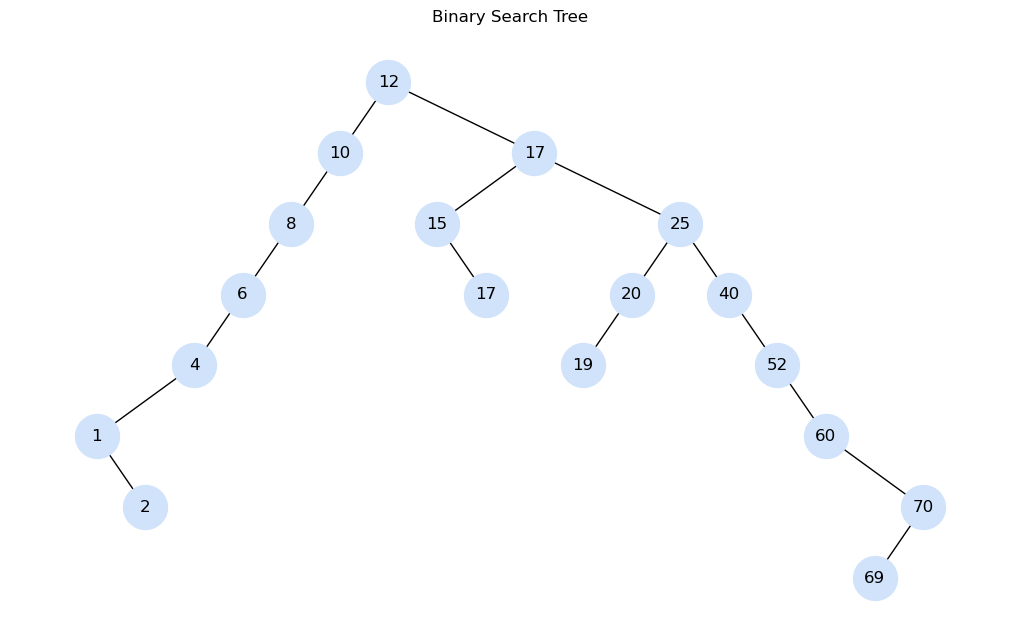
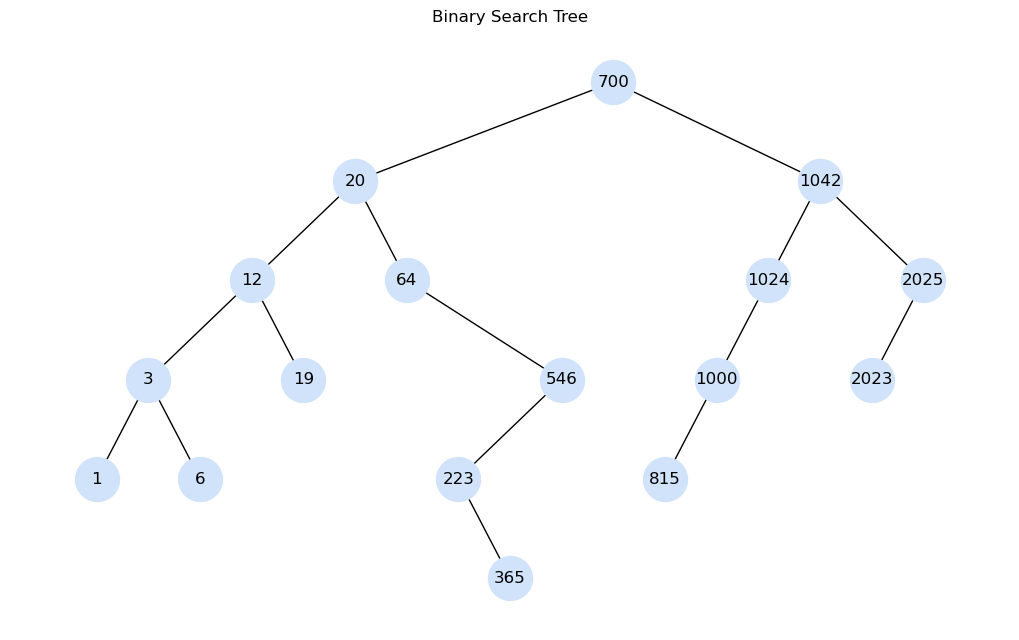
Added new features in BST

diff --git a/period-2/binary-search-tree/tree.py b/period-2/binary-search-tree/tree.py
@@ -1,4 +1,5 @@
 
+from math import log2
 from typing import Optional, List
 
 class Node:
@@ -21,6 +22,49 @@ class BinaryTree:
     def __init__(self):
         """Initializes an empty binary search tree."""
         self.root: Optional[Node] = None
+
+    @property
+    def height(self) -> int:
+        """Calculates the height of the tree.
+
+        Returns:
+            int: The height of the tree.
+        """
+        return self.get_height(self.root)
+
+    @property
+    def nodes(self) -> int:
+        """Counts the number of nodes in the tree.
+
+        Returns:
+            int: The number of nodes in the tree.
+        """
+        return self.count_nodes(self.root)
+
+    @property
+    def balanced_height(self) -> int:
+        """Calculates the balanced height of the tree.
+
+        Returns:
+            int: The balanced height of the tree.
+        """
+        return log2(self.nodes)
+
+    def get_height(self, node: Optional[Node]) -> int:
+        """Calculates the height of the tree.
+
+        Args:
+            node (Optional[Node]): The root node of the tree.
+
+        Returns:
+            int: The height of the tree.
+        """
+        if node is None:
+            return 0
+        else:
+            left_height = self.get_height(node.left)
+            right_height = self.get_height(node.right)
+            return max(left_height, right_height) + 1
 
     def insert(self, value: int) -> None:
         """Inserts a value into the binary tree.
@@ -58,6 +102,20 @@ class BinaryTree:
             node.right = self._insert_recursive(node.right, value)
 
         return node
+
+    def count_nodes(self, node: Optional[Node]) -> int:
+        """Counts the number of nodes in the tree.
+
+        Args:
+            node (Optional[Node]): The root node of the tree.
+
+        Returns:
+            int: The number of nodes in the tree.
+        """
+        if node is None:
+            return 0
+        else:
+            return 1 + self.count_nodes(node.left) + self.count_nodes(node.right)
 
     def search(self, value: int) -> bool:
         """Searches for a value in the binary tree.

diff --git a/period-2/binary-search-tree/main.py b/period-2/binary-search-tree/main.py
@@ -3,18 +3,19 @@ from tree import BinaryTree
 from tree_visual import BinaryTreeVisualizer as btv
 
 tree = BinaryTree()
-tree.insert(12)
-tree.insert(17)
-tree.insert(25)
-tree.insert(10)
-tree.insert(15)
-tree.insert(17)
-tree.insert_list([8, 6, 4, 1, 2])
-tree.insert_list([20, 19, 40, 52, 60, 70, 69])
+tree.insert_list([700, 20, 1042, 1024, 64, 12, 3, 19, 546, 223, 1, 1000, 365, 6, 2025, 815, 2023])
+tree2 = BinaryTree()
+tree2.insert_list([700, 699, 698, 697, 696, 695, 694, 693, 692, 691, 690, 689, 688, 687, 686, 681, 682])
 
 print(tree.search(8))
+print(f"Altura del arbol 1: {tree.height}")
+print(f"Altura balanceada del arbol 1: {tree.balanced_height:.2f}")
+print(f"Nodos del arbol 1: {tree.nodes}")
+
+print(f"Altura del arbol 2: {tree2.height}")
 
 print("\nInorder traversal:")
 print(tree.inorder_traversal(tree.root))
 
 btv.plot(tree, "tree.png")
+btv.plot(tree2, "tree2.png")

diff --git a/period-2/binary-search-tree/tree_visual.py b/period-2/binary-search-tree/tree_visual.py
@@ -65,4 +65,4 @@ class BinaryTreeVisualizer:
         plt.title("Binary Search Tree")
         plt.axis("off")
         plt.savefig(full_path, bbox_inches="tight")
-        plt.show()
+        # plt.show()
